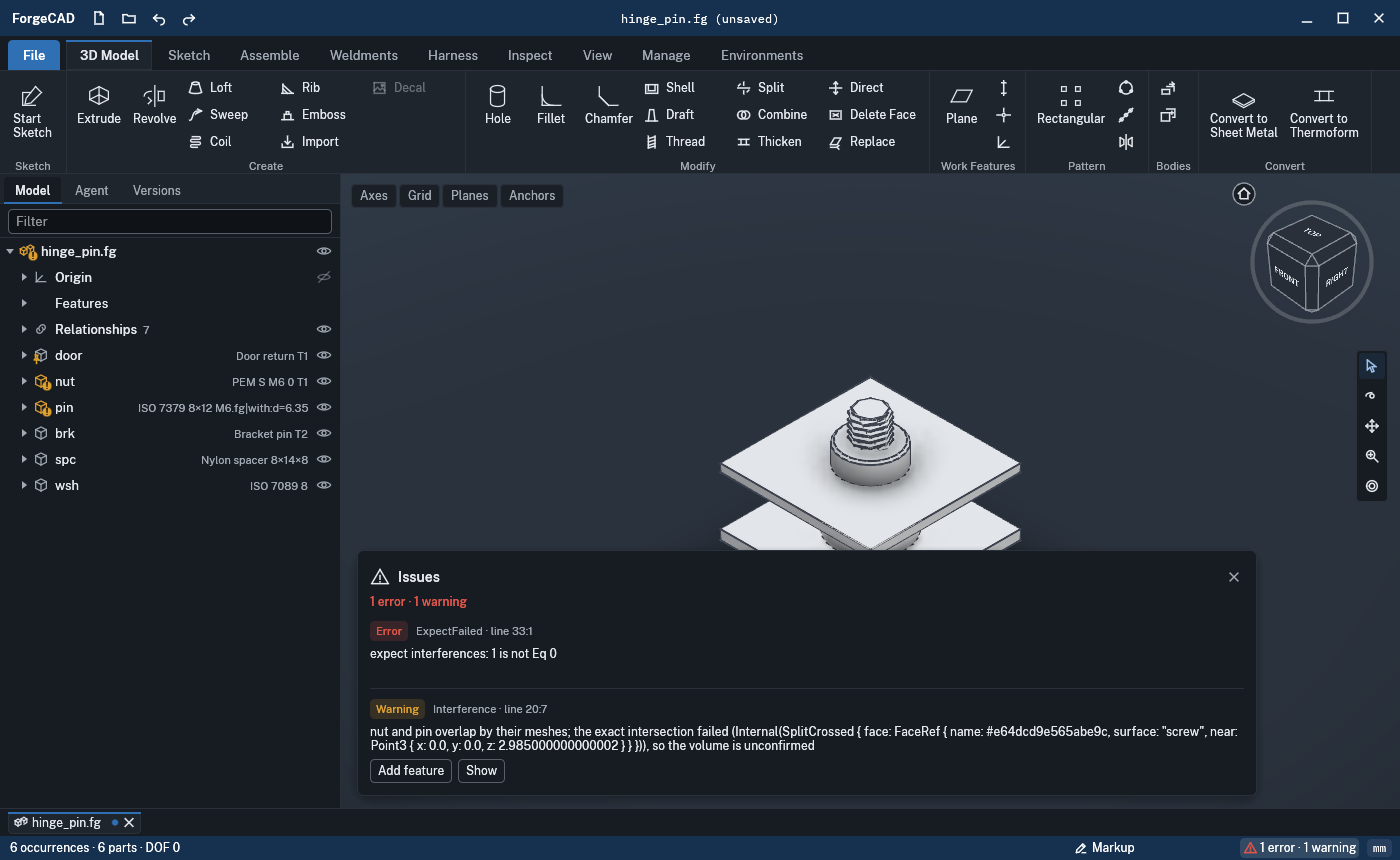
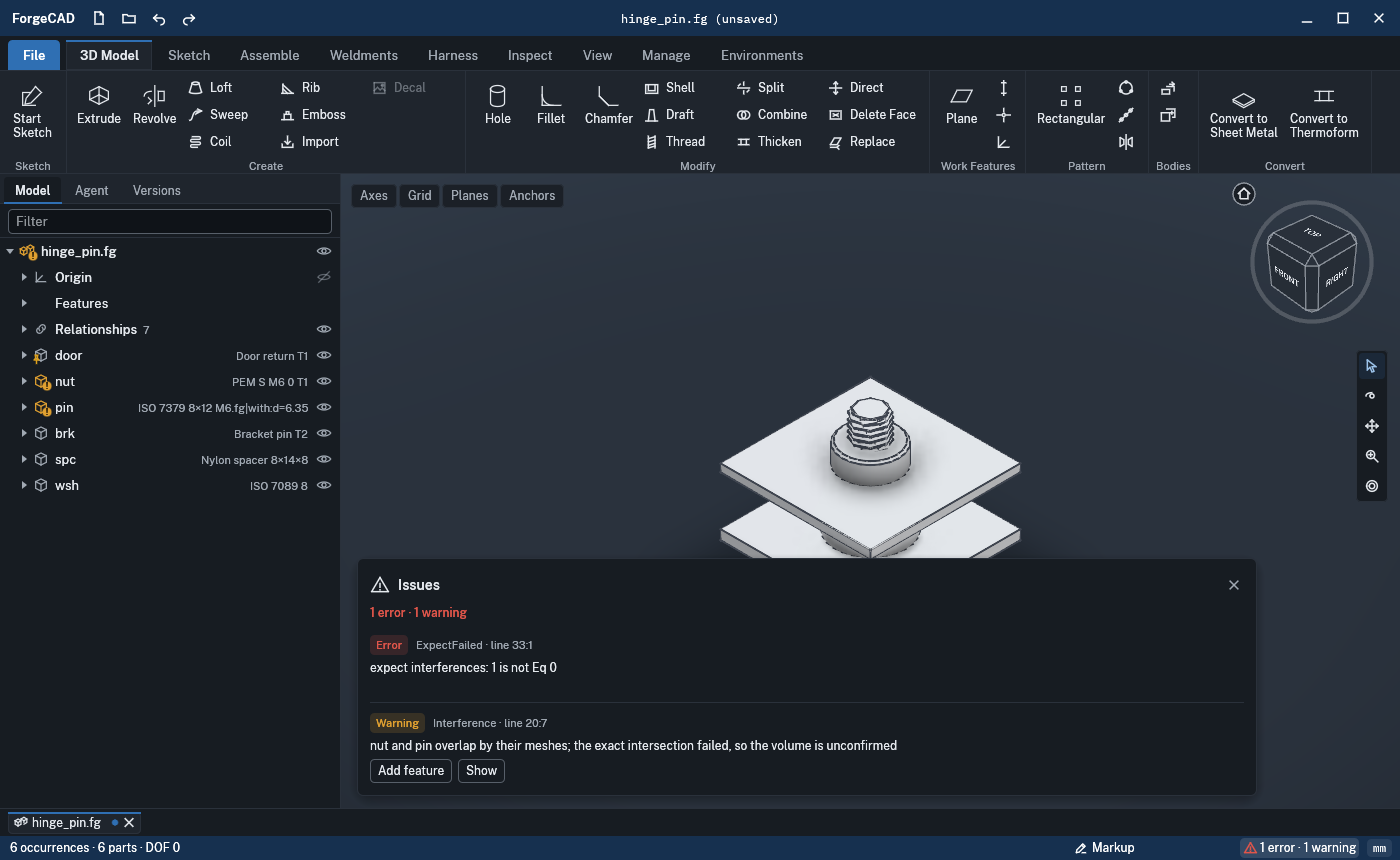
forge-render: 'checking' with the shared spinner (UX-LEAD, STANDARD §7); a failed exact intersection in words, its reason on hover
The Issues head shows the counts then ux::loading('checking'); a kept row's caption ends
'· checking' ('…' is for commands that open a dialog). The status bar's count gets a spinner
before it while checks run, hover 'Checking the assembly's overlaps since your last edit'.
An unconfirmed interference whose exact boolean failed reads '... the exact intersection
failed, so the volume is unconfirmed' in the window, the kernel's reason (a Debug dump) on
hover only (§5); forge-lang's own text, for the CLI and JSON, is unchanged.
Pictures re-shot: research/ui/asm-shape-first/.

Claude-Session: https://claude.ai/code/session_01WJtawzwTrDPARM7r7umFgx

Changed region(s): [[0.2457, 0.6349, 0.8907, 0.8767], [0.5221, 0.6349, 0.7371, 0.6651], [0.7679, 0.6349, 0.8907, 0.6651]]

diff --git a/interface/forge-render/src/shell/fg.rs b/interface/forge-render/src/shell/fg.rs
@@ -1506,11 +1506,7 @@ impl Shell {
         places: &mut Vec<(String, Rect)>,
     ) {
         let (errors, warnings) = issue_counts(&fg.issues);
-        let mut head = format!("{} · {}", plural(errors, "error"), plural(warnings, "warning"));
-        // an assembly's last checks still listed while the new ones run
-        if fg.issues.iter().any(|i| i.stale) {
-            head.push_str(" · checking…");
-        }
+        let head = format!("{} · {}", plural(errors, "error"), plural(warnings, "warning"));
         let ink = if errors > 0 {
             t.error
         } else if warnings > 0 {
@@ -1518,7 +1514,16 @@ impl Shell {
         } else {
             t.ink2
         };
-        let r = ui.label(egui::RichText::new(head).font(medium(12.0)).color(ink));
+        // an assembly's last checks still listed while the new ones run: the shared spinner
+        let checking = fg.issues.iter().any(|i| i.stale);
+        let r = ui
+            .horizontal(|ui| {
+                ui.label(egui::RichText::new(head).font(medium(12.0)).color(ink));
+                if checking {
+                    super::ux::loading(ui, t, "checking");
+                }
+            })
+            .response;
         places.push(("fg:issues".into(), r.rect));
         ui.add_space(super::theme::S1);
         let issues = std::mem::take(&mut fg.issues);
@@ -1567,7 +1572,7 @@ impl Shell {
                             is.kind,
                             is.line,
                             is.col,
-                            if is.stale { " · checking…" } else { "" }
+                            if is.stale { " · checking" } else { "" }
                         ))
                         .font(super::theme::caption())
                         .color(t.ink2),
@@ -1576,7 +1581,24 @@ impl Shell {
                 .response;
             places.push((format!("fg:issue:{i}"), r.rect));
             ui.add_space(2.0);
-            ui.label(egui::RichText::new(&is.text).font(sans(12.0)).color(if is.stale { t.ink2 } else { t.ink }));
+            // a failed exact intersection said in words; the kernel's reason only on hover
+            let (text, why) = match &is.asm {
+                Some(forge_lang::asm::Issue::Interference {
+                    a,
+                    b,
+                    volume: None,
+                    boolean_failed: Some(why),
+                    ..
+                }) => (
+                    format!("{a} and {b} overlap by their meshes; the exact intersection failed, so the volume is unconfirmed"),
+                    Some(why),
+                ),
+                _ => (is.text.clone(), None),
+            };
+            let row = ui.label(egui::RichText::new(text).font(sans(12.0)).color(if is.stale { t.ink2 } else { t.ink }));
+            if let Some(why) = why {
+                row.on_hover_text(why.as_str());
+            }
             if !is.fixes.is_empty() || is.asm.is_some() {
                 ui.add_space(2.0);
                 ui.horizontal_wrapped(|ui| {

diff --git a/interface/forge-render/src/shell/mod.rs b/interface/forge-render/src/shell/mod.rs
@@ -1294,11 +1294,18 @@ impl Shell {
             );
             let g = ui.fonts_mut(|f| f.layout_no_wrap(text.clone(), sans(12.0), Color32::WHITE));
             let right = Self::units_chip(&units, ui, &p, st) - theme::S2;
+            // an assembly's last checks still shown while the new ones run: a spinner before the
+            // count, so it does not read as settled
+            let checking = fg.issues.iter().any(|i| i.stale);
+            let spin = if checking { 18.0 } else { 0.0 };
             let r = Rect::from_min_max(
-                pos2(right - g.size().x - 22.0, st.top() + 2.0),
+                pos2(right - g.size().x - 22.0 - spin, st.top() + 2.0),
                 pos2(right, st.bottom() - 2.0),
             );
-            let resp = ui.interact(r, ui.scope_id().with("status-issues"), Sense::click());
+            let mut resp = ui.interact(r, ui.scope_id().with("status-issues"), Sense::click());
+            if checking {
+                resp = resp.on_hover_text("Checking the assembly's overlaps since your last edit");
+            }
             // a chip at rest too, so it reads as the button it is
             let lit = resp.hovered() || fg.issues_list;
             p.rect_filled(r, theme::R1, Color32::from_white_alpha(if lit { 32 } else { 14 }));
@@ -1317,8 +1324,12 @@ impl Shell {
                 1.5,
                 ink,
             );
+            if checking {
+                let at = Rect::from_center_size(pos2(r.left() + 20.0 + 6.0, r.center().y), vec2(12.0, 12.0));
+                egui::Spinner::new().size(12.0).color(Color32::WHITE).paint_at(ui, at);
+            }
             p.galley(
-                pos2(r.left() + 20.0, r.center().y - g.size().y * 0.5),
+                pos2(r.left() + 20.0 + spin, r.center().y - g.size().y * 0.5),
                 g,
                 Color32::WHITE,
             );

diff --git a/interface/forge-render/tests/asm_shape_shots.rs b/interface/forge-render/tests/asm_shape_shots.rs
@@ -3,7 +3,7 @@
 //! driven by size_m6 (`with: {d: size_m6}`: in the example it drives only the fit rule), grown to
 //! 6.3 and then 6.35: each a new pin, so each check is a slow exact screw intersection on main's
 //! kernel. The Issues window after the checks, during the next edit's checks (the clash kept,
-//! "checking…"), and after them. Edits go through the session's typed ops, as the app's do.
+//! "checking", with the spinner), and after them. Edits go through the session's typed ops, as the app's do.
 use forge_lang::error::{Literal, Op, ParamKey};
 use forge_lang::values::Dim;
 use forge_render::gui::{Gui, Headless};
